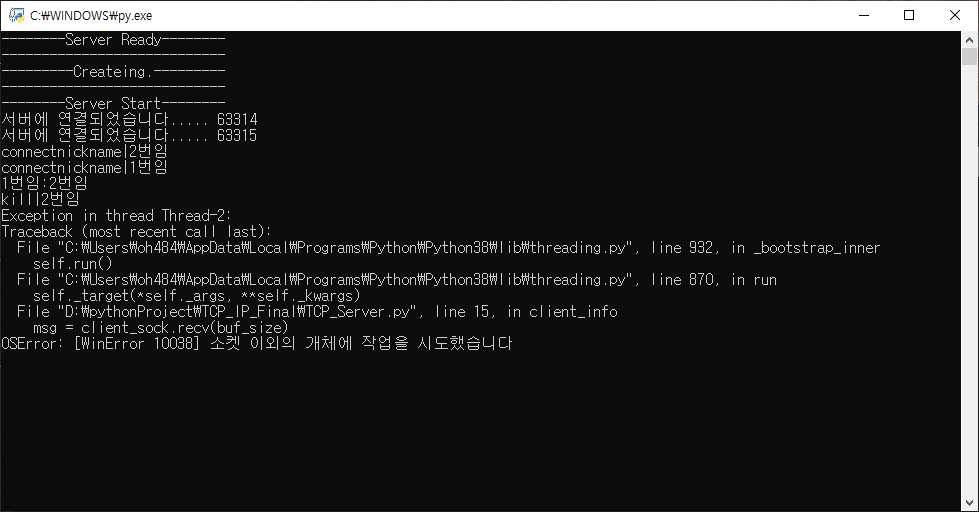
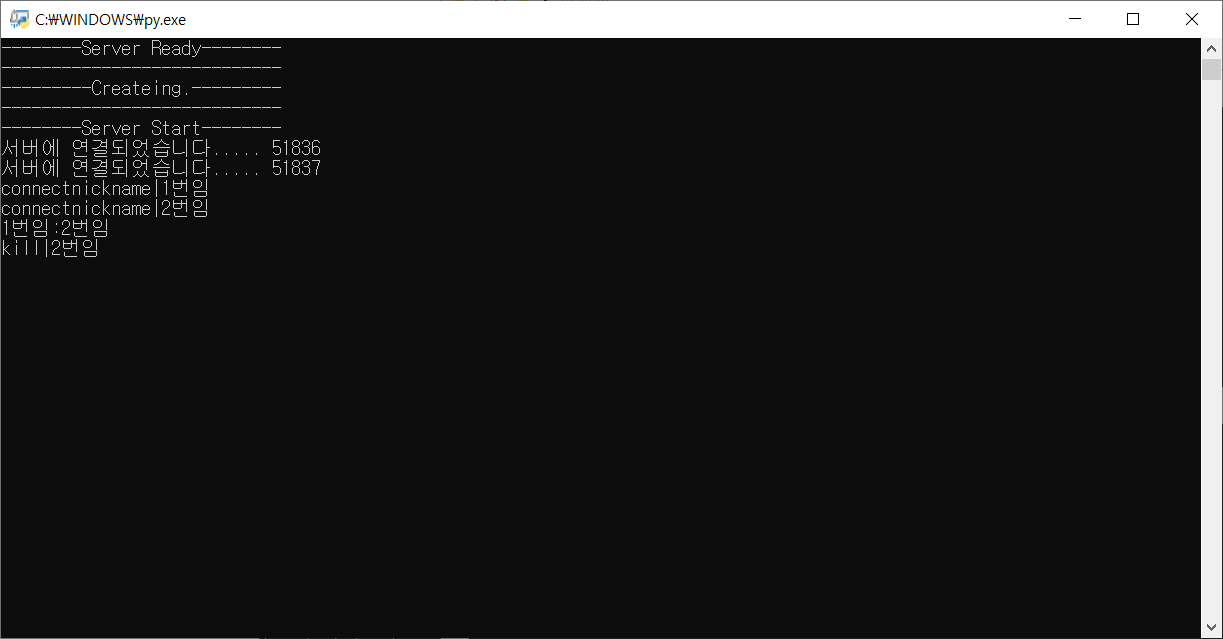
TCP Final

diff --git a/Server/TCP_Server.py b/Server/TCP_Server.py
@@ -11,56 +11,60 @@ def client_info(client_sock, client_ip, client_port):
     
     # 메시지를 계속 처리하기 위해
     while True:
-        # 메시지 수신
-        msg = client_sock.recv(buf_size)
-        # 서버에 메시지 출력
-        print(msg.decode())
-        # 메시지로 /out 이라는 것을 받았을 때
-        if msg.decode() in '/out':
-            print('[%s] 클라이언트 종료합니다...' % client_port)
-            # 해당 클라이언트 소캣을 배열에서 지워주고
-            connections.remove(client_sock)
-            # 해당 클라이언트를 닫는다.
-            client_sock.close()
-        
-        # 받은 메시지 중 'connectnickname|' 존재 여부를 찾는다
-        tempmsgnick = msg.decode().find('connectnickname|')
-        # 받은 메시지 중 'kill|' 존재 여부를 찾는다
-        tempkill = msg.decode().find('kill|')
+        try:
+            # 메시지 수신
+            msg = client_sock.recv(buf_size)
+            # 서버에 메시지 출력
+            print(msg.decode())
+            # 메시지로 /out 이라는 것을 받았을 때
+            if msg.decode() in '/out':
+                print('[%s] 클라이언트 종료합니다...' % client_port)
+                # 해당 클라이언트 소캣을 배열에서 지워주고
+                connections.remove(client_sock)
+                # 해당 클라이언트를 닫는다.
+                client_sock.close()
 
-        # kill|이 있다면 실행
-        if tempkill != -1:
-            # 2개의 변수로 나누어 받는다. kill|유저이름 형식
-            tempkill1, tempkill2 = msg.decode().split('|')
-            # 보내서 담아줄 변수 실행
-            temp: object = tempkill2 + '가 사망했습니다'
-            # 모두에게 메시지를 보내준다.
-            for conn in connections:
-                conn.sendall(str(temp).encode())
-            # 해당하는 소캣을 닫아버린다.
-            socket_list[tempkill2].close()
-            # connections에서 해당 값 삭제
-            connections.remove(client_sock)
-            # socket_list에서 해당 값 삭제
-            del socket_list[tempkill2]
-            continue
-        # connectnickname|이 있다면 실행
-        if tempmsgnick != -1:
-            # connectnickname|유저이름 형식으로 받아서 나눈다.
-            tempmsgnick1, tempmsgnick2 = msg.decode().split('|')
-            # socket_list에 추가한다.
-            socket_list.setdefault(tempmsgnick2, client_sock)
+            # 받은 메시지 중 'connectnickname|' 존재 여부를 찾는다
+            tempmsgnick = msg.decode().find('connectnickname|')
+            # 받은 메시지 중 'kill|' 존재 여부를 찾는다
+            tempkill = msg.decode().find('kill|')
 
-        # 소캣 정보 배열에 있는 소캣들 마다 전부 보내준다.
-        for conn in connections:
-            # 자신이라면 보내지 않는다
-            if conn == client_sock:
+            # kill|이 있다면 실행
+            if tempkill != -1:
+                # 2개의 변수로 나누어 받는다. kill|유저이름 형식
+                tempkill1, tempkill2 = msg.decode().split('|')
+                # 보내서 담아줄 변수 실행
+                temp: object = tempkill2 + '가 사망했습니다'
+                # 모두에게 메시지를 보내준다.
+                for conn in connections:
+                    conn.sendall(str(temp).encode())
+                # 해당하는 소캣을 닫아버린다.
+                socket_list[tempkill2].close()
+                # connections에서 해당 값 삭제
+                connections.remove(client_sock)
+                # socket_list에서 해당 값 삭제
+                del socket_list[tempkill2]
                 continue
-            conn.send(msg)
+            # connectnickname|이 있다면 실행
+            if tempmsgnick != -1:
+                # connectnickname|유저이름 형식으로 받아서 나눈다.
+                tempmsgnick1, tempmsgnick2 = msg.decode().split('|')
+                # socket_list에 추가한다.
+                socket_list.setdefault(tempmsgnick2, client_sock)
 
-        # 메시지가 없을 경우 반복문 탈출
-        if not msg:
-            break
+            # 소캣 정보 배열에 있는 소캣들 마다 전부 보내준다.
+            for conn in connections:
+                # 자신이라면 보내지 않는다
+                if conn == client_sock:
+                    continue
+                conn.send(msg)
+
+            # 메시지가 없을 경우 반복문 탈출
+            if not msg:
+                break
+        except:
+            pass
+
 
 # 서버 Ip
 host = '127.0.0.1'

diff --git a/Client/TCP_Client.py b/Client/TCP_Client.py
@@ -6,32 +6,34 @@ from threading import Thread
 def receive_handler():
     while True:
         # 메시지 수신
-        receiveMsg = sock.recv(buf_size)
-        # 아무것도 없을 시 반복문 종료
-        if not receiveMsg:
-            break
-        # 깔끔하게 보이게 하기위한 콘솔창 전 줄 삭제
-        print('', end='\r', flush=True)
-        # 받는 메시지중 ':'이 있나 확인한다.
-        flag = receiveMsg.decode().find(':')
-        # ':'이 있다면 실행
-        if flag != -1:
-            # 메시지 출력
-            print(receiveMsg.decode())
-            # split으로 나눈 내용들을 따로 저장한다.
-            nick, nick_answer = receiveMsg.decode().split(':')
-            # 나눈 후 정답 부분의 문자열을 해당 클라이언트에 저장한 것과 비교한다.
-            if nick_answer == answer:
-                # 정답이 맞을 시 죽었다는 걸 알리기 위해 보낸다.
-                sock.send(str('kill|' + user_name).encode())
-                print('당신은 죽었습니다.')
-                # 프로그램 종료
-                exit()
-        else:
-            # 메시지 출력
-            print(receiveMsg.decode())
-            continue
-
+        try:
+            receiveMsg = sock.recv(buf_size)
+            # 아무것도 없을 시 반복문 종료
+            if not receiveMsg:
+                break
+            # 깔끔하게 보이게 하기위한 콘솔창 전 줄 삭제
+            print('', end='\r', flush=True)
+            # 받는 메시지중 ':'이 있나 확인한다.
+            flag = receiveMsg.decode().find(':')
+            # ':'이 있다면 실행
+            if flag != -1:
+                # 메시지 출력
+                print(receiveMsg.decode())
+                # split으로 나눈 내용들을 따로 저장한다.
+                nick, nick_answer = receiveMsg.decode().split(':')
+                # 나눈 후 정답 부분의 문자열을 해당 클라이언트에 저장한 것과 비교한다.
+                if nick_answer == answer:
+                    # 정답이 맞을 시 죽었다는 걸 알리기 위해 보낸다.
+                    sock.send(str('kill|' + user_name).encode())
+                    print('당신은 죽었습니다.')
+                    # 프로그램 종료
+                    exit()
+            else:
+                # 메시지 출력
+                print(receiveMsg.decode())
+                continue
+        except:
+            pass
 
 # 메시지를 보내는 함수
 def send_handler():
@@ -68,7 +70,7 @@ if __name__ == '__main__':
     sock = socket(AF_INET, SOCK_STREAM)
     # 서버ip, port로 접속
     sock.connect(ADDR)
-    print('서버 연결을 성공하였습니다.')
+    print('서버에 연결 되었습니다.')
 
     # 이름이 제대로 입력 될 때 까지
     while True:
